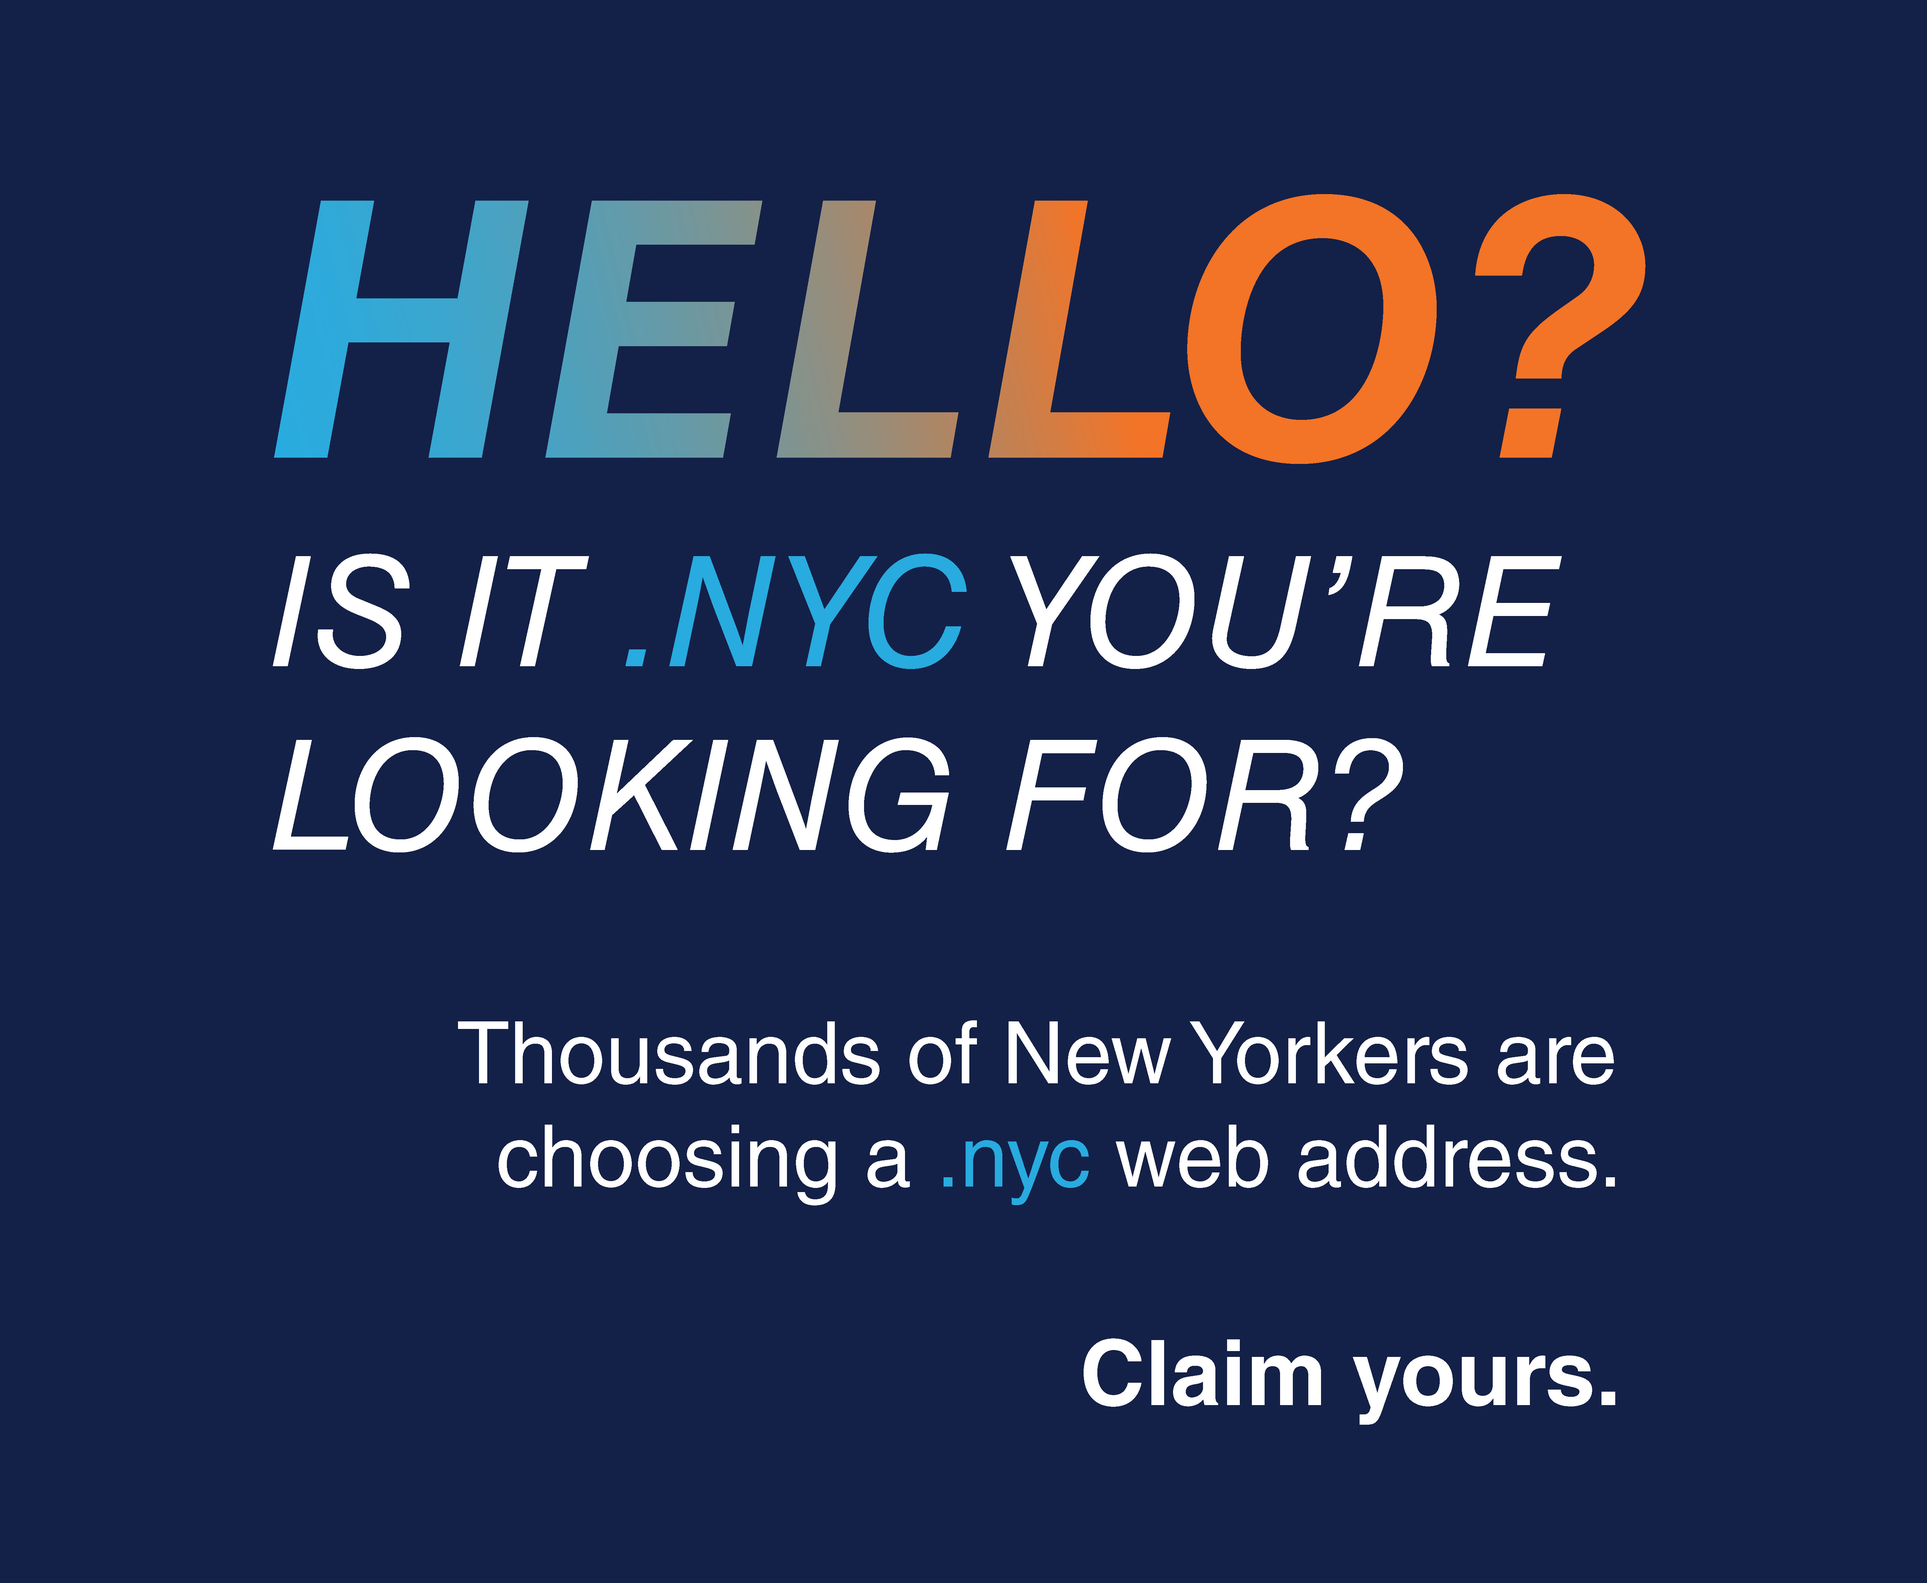
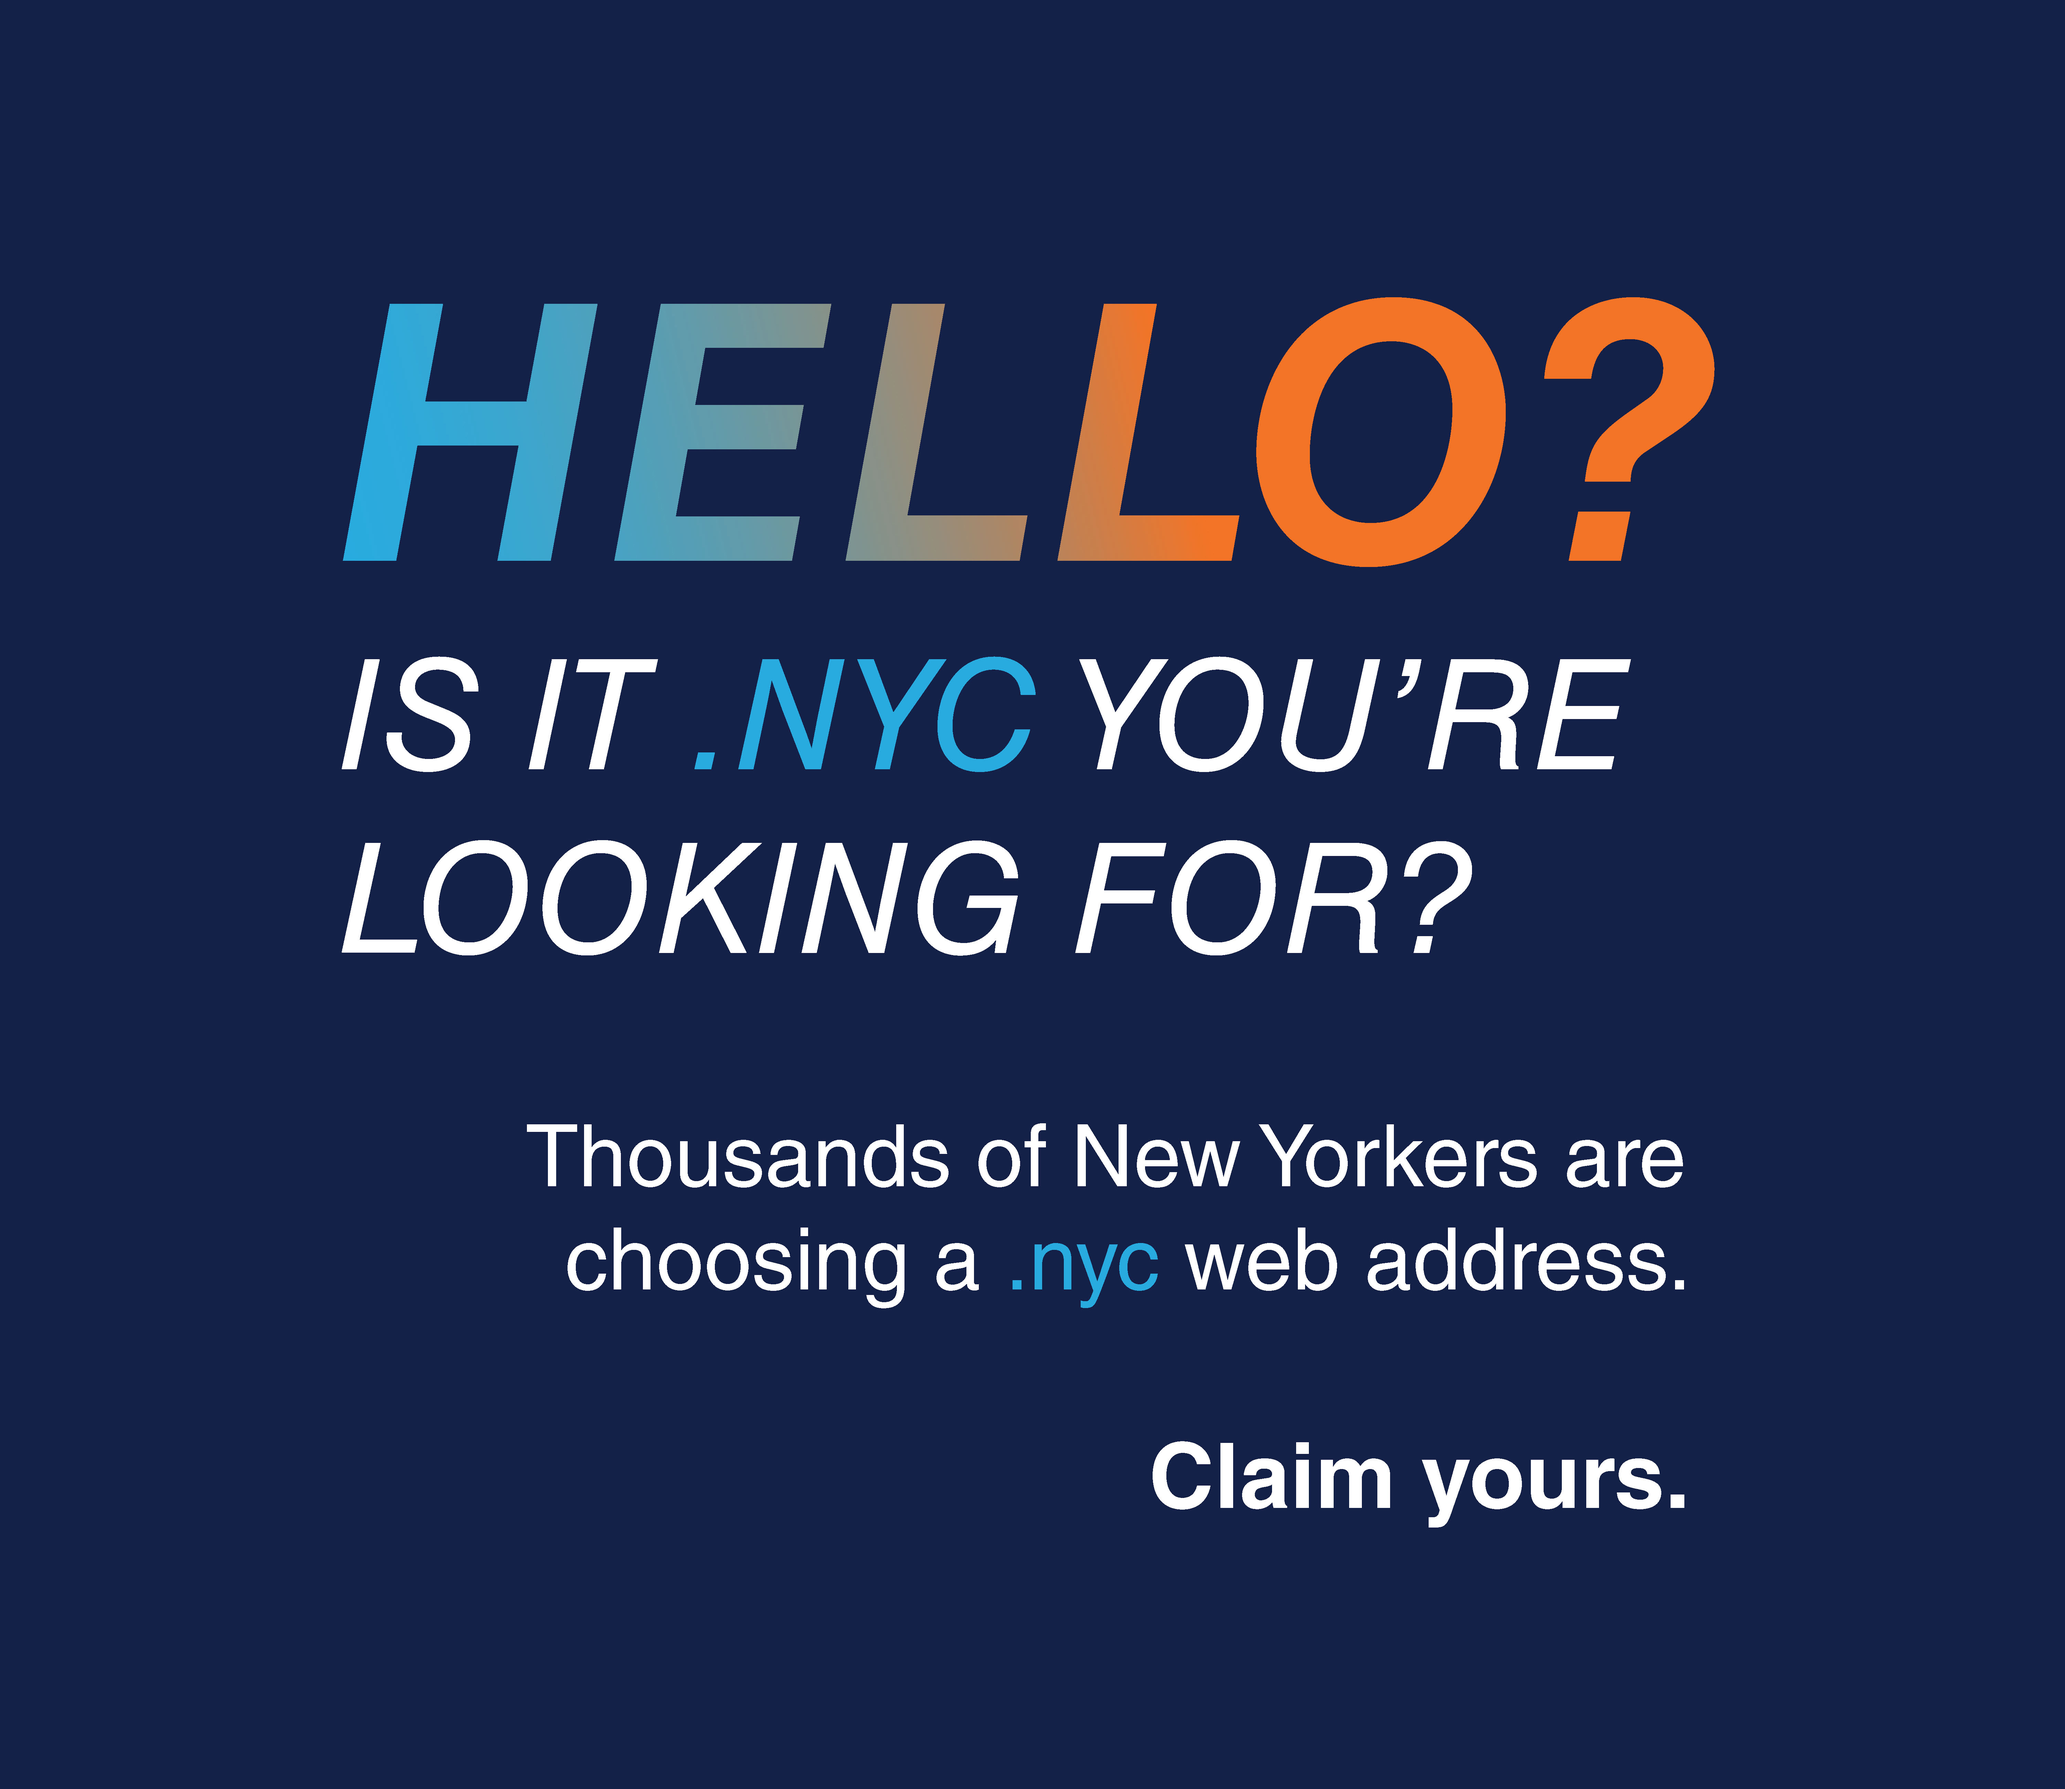
sizing images, css, thumbs
sized down some items for web for faster loading, edited css for
thumbnails, created a few new thumbnails for appropriate responsive
sizing

diff --git a/css/main.css b/css/main.css
@@ -297,7 +297,7 @@ header {
 }
 
 .thumbs-9{
-    background-image: url("../img/factpack2-jody.jpg");
+    background-image: url("../img/factpack2-jody-thumb.jpg");
     background-size: 200%;
     background-position: top right;
     background-repeat: no-repeat;
